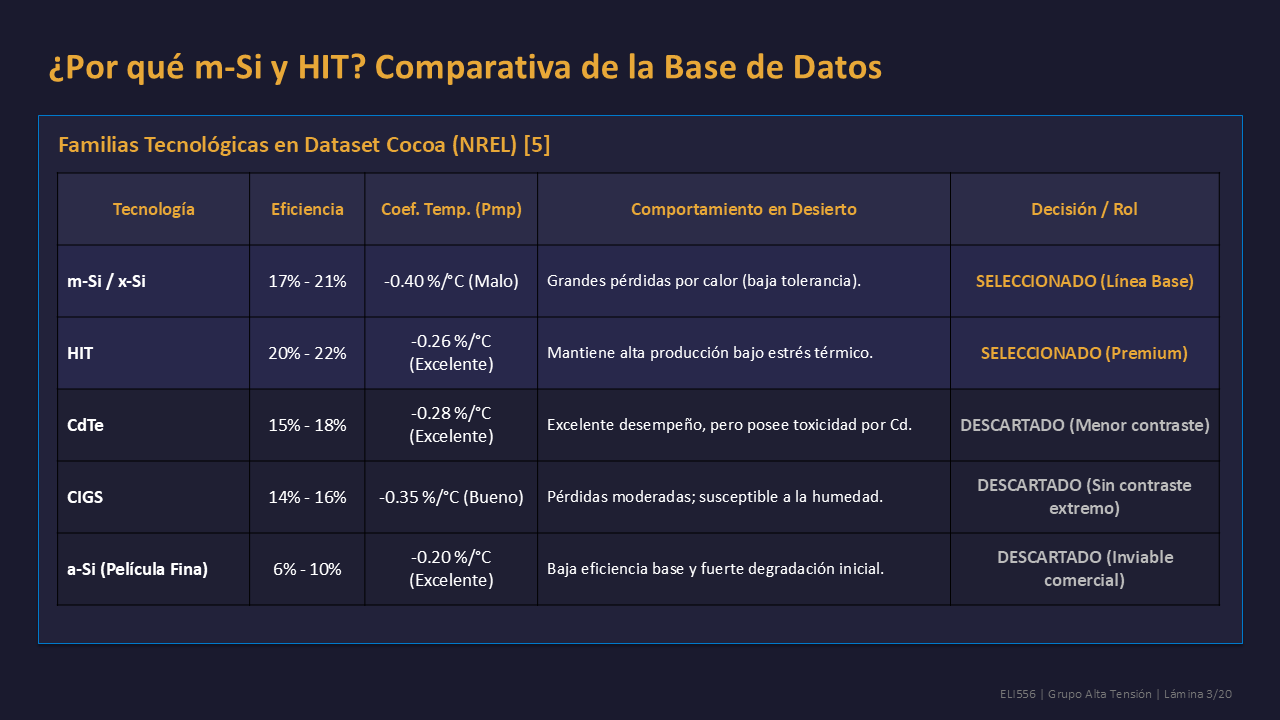
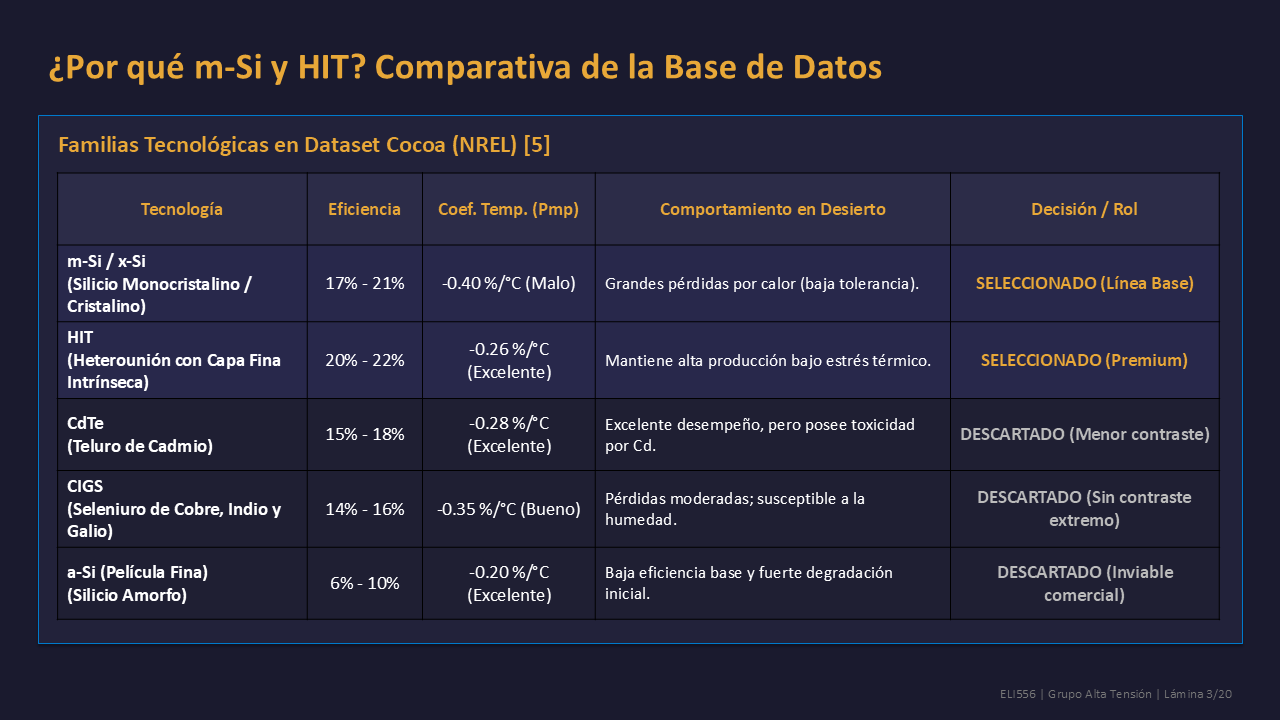
Explicitate technology acronym meanings in Slide 3 table

diff --git a/src/fase6_gen_presentation.py b/src/fase6_gen_presentation.py
@@ -231,19 +231,19 @@ def create_presentation():
     if style_id_element is not None:
         style_id_element.text = '{5940675A-B579-460E-94D1-54222C63F5DA}'
     
-    table.columns[0].width = Inches(2.0)
+    table.columns[0].width = Inches(2.6)
     table.columns[1].width = Inches(1.2)
     table.columns[2].width = Inches(1.8)
-    table.columns[3].width = Inches(4.3)
+    table.columns[3].width = Inches(3.7)
     table.columns[4].width = Inches(2.8)
     
     headers = ["Tecnología", "Eficiencia", "Coef. Temp. (Pmp)", "Comportamiento en Desierto", "Decisión / Rol"]
     data = [
-        ["m-Si / x-Si", "17% - 21%", "-0.40 %/°C (Malo)", "Grandes pérdidas por calor (baja tolerancia).", "SELECCIONADO (Línea Base)"],
-        ["HIT", "20% - 22%", "-0.26 %/°C (Excelente)", "Mantiene alta producción bajo estrés térmico.", "SELECCIONADO (Premium)"],
-        ["CdTe", "15% - 18%", "-0.28 %/°C (Excelente)", "Excelente desempeño, pero posee toxicidad por Cd.", "DESCARTADO (Menor contraste)"],
-        ["CIGS", "14% - 16%", "-0.35 %/°C (Bueno)", "Pérdidas moderadas; susceptible a la humedad.", "DESCARTADO (Sin contraste extremo)"],
-        ["a-Si (Película Fina)", "6% - 10%", "-0.20 %/°C (Excelente)", "Baja eficiencia base y fuerte degradación inicial.", "DESCARTADO (Inviable comercial)"]
+        ["m-Si / x-Si\n(Silicio Monocristalino / Cristalino)", "17% - 21%", "-0.40 %/°C (Malo)", "Grandes pérdidas por calor (baja tolerancia).", "SELECCIONADO (Línea Base)"],
+        ["HIT\n(Heterounión con Capa Fina Intrínseca)", "20% - 22%", "-0.26 %/°C (Excelente)", "Mantiene alta producción bajo estrés térmico.", "SELECCIONADO (Premium)"],
+        ["CdTe\n(Teluro de Cadmio)", "15% - 18%", "-0.28 %/°C (Excelente)", "Excelente desempeño, pero posee toxicidad por Cd.", "DESCARTADO (Menor contraste)"],
+        ["CIGS\n(Seleniuro de Cobre, Indio y Galio)", "14% - 16%", "-0.35 %/°C (Bueno)", "Pérdidas moderadas; susceptible a la humedad.", "DESCARTADO (Sin contraste extremo)"],
+        ["a-Si (Película Fina)\n(Silicio Amorfo)", "6% - 10%", "-0.20 %/°C (Excelente)", "Baja eficiencia base y fuerte degradación inicial.", "DESCARTADO (Inviable comercial)"]
     ]
     
     for c in range(cols):
